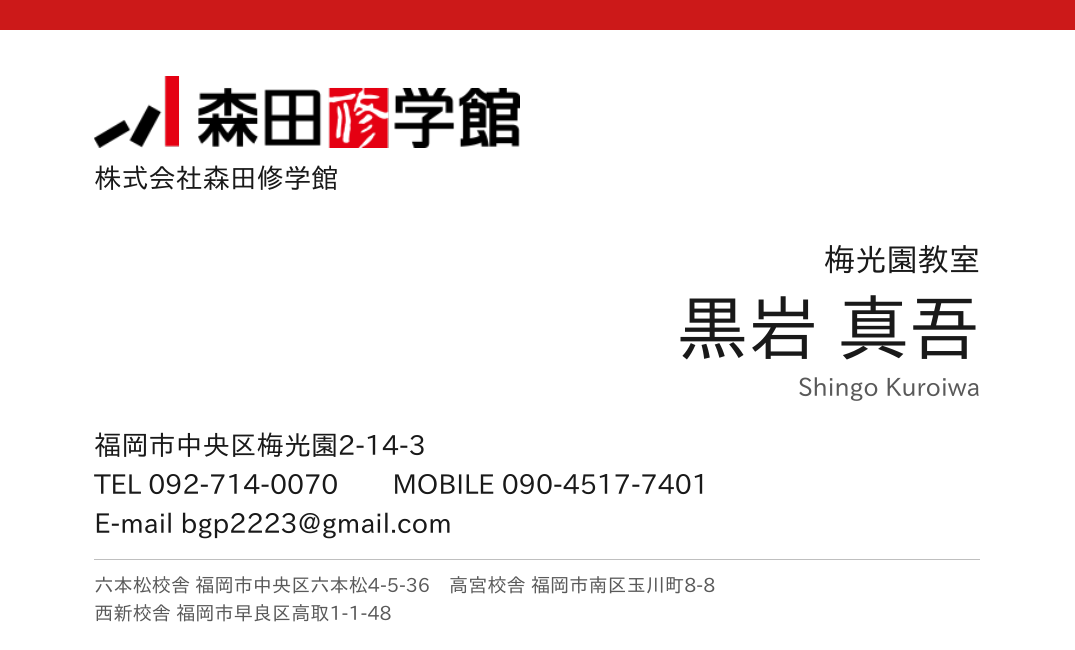
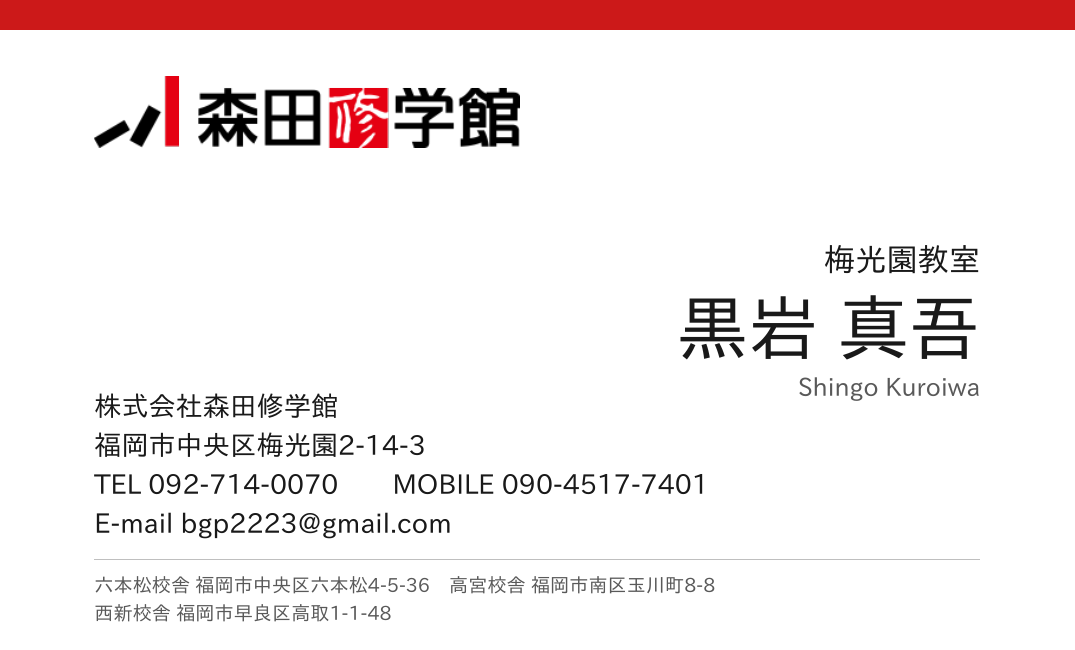
Move company name directly above address
Claude-Session: https://claude.ai/code/session_01UZjDUjJeLbn963uYfeSaJM

Changed region(s): [[0.0921, 0.5846, 0.3377, 0.6462], [0.0921, 0.2462, 0.307, 0.3077]]

diff --git a/meishi/make.py b/meishi/make.py
@@ -13,12 +13,12 @@ def t(y,s,size,color=INK,right=False):
     (c.drawRightString if right else c.drawString)(R if right else L,H-y*mm,s)
 # 上段左：ロゴ・会社名
 lw=36*mm; c.drawImage('meishi/logo.png',L,H-12.5*mm,width=lw,height=lw/6,mask='auto')
-t(16,'株式会社森田修学館',6.5)
 # 中段右：所属・氏名
 t(23,'梅光園教室',7.5,right=True)
 t(30,'黒岩 真吾',17,right=True)
 t(33.6,'Shingo Kuroiwa',6,GREY,right=True)
 # 下段左：連絡先
+t(35.3,'株式会社森田修学館',6.5)
 t(38.6,'福岡市中央区梅光園2-14-3',6.5)
 t(41.9,'TEL 092-714-0070　　MOBILE 090-4517-7401',6.5)
 t(45.2,'E-mail bgp2223@gmail.com',6.5)
